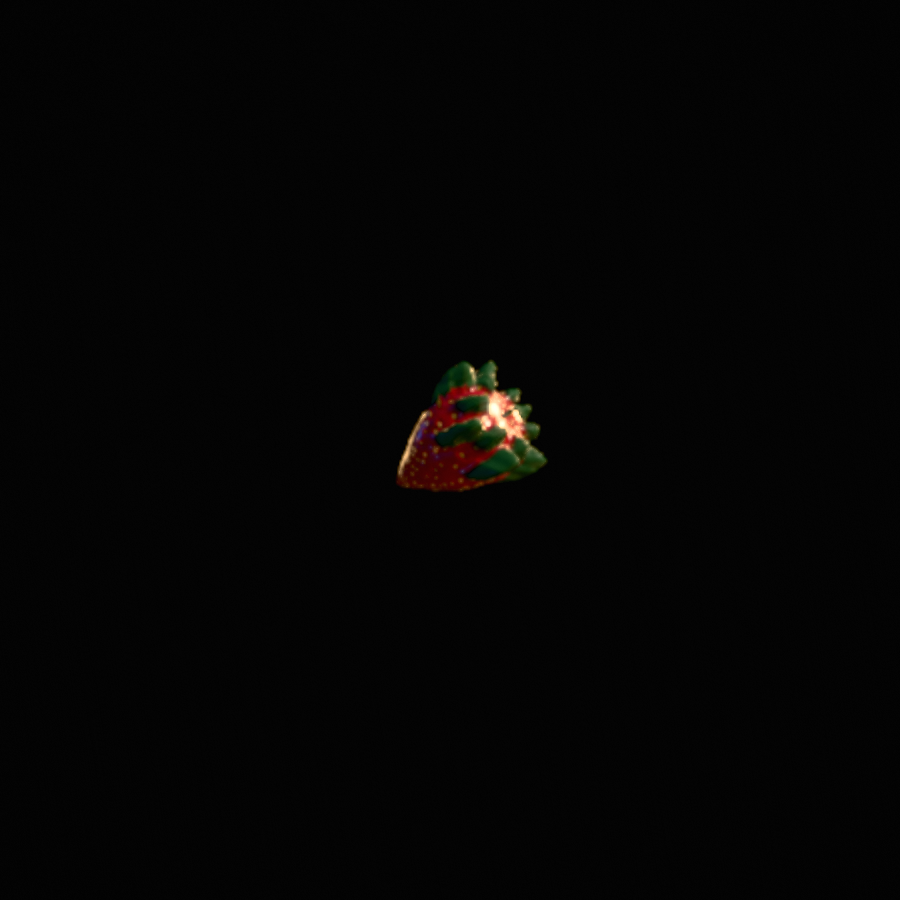
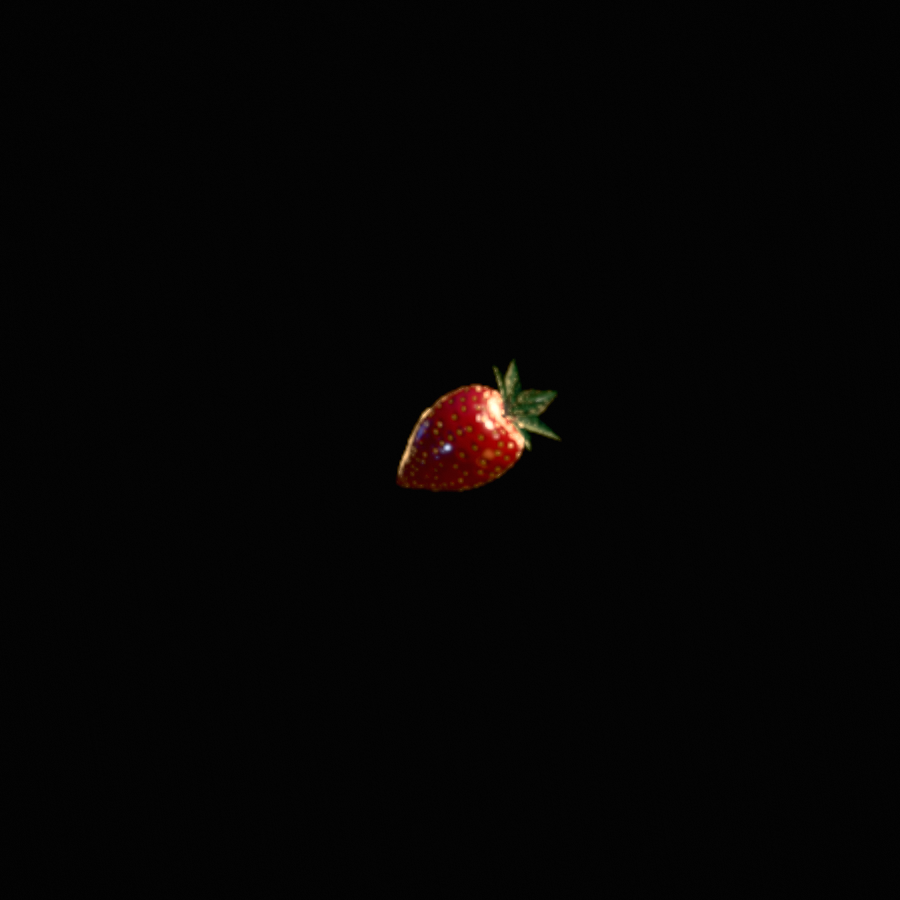
r24: real strawberry leaves — freestanding blade geometry; voiceAround pass budget (codex)
The reference photo settled it: a calyx is broad flat leaves standing FREE
of the fruit with air underneath, and a crown bump — a radial height field
on the body — is attached to the surface along its whole footprint by
construction. No bump parameters could ever read as leaves, which is why
needles (r6), horns (r20), slugs (r22) and flames (r23) all failed the
same way.

geometry.js gains S.leaves / buildLeafCrown(): authored triangle strips
appended to the same non-indexed soup as the body. Each leaf is a closed
pillow (top and bottom sheet sharing a rim, thickness tapering to zero at
edges and tip), rooted inside the stem hub, splayed over the shoulder on a
spine theta(s) = beta + droop*s - kick*s^2 with per-leaf pitch/length
jitter. uv.y runs the leaf band so the strawberry's leafFresh green paints
them. Cut safety is load-bearing, not hoped for: cutter.js chainLoops
already caps every closed loop a plane produces, and the probe's session
loop slices strawberries with zero errors. The D-variant strawberry drops
its bump crown for two whorls of real leaves (6 outer + 4 inner).

Also: harmony.voiceAround's fixed 8-pass cap could leave a 5-fruit stroke
with two voices in unison (codex P2) — the budget is now derived from the
stroke size (n*(n+1)+4, one lift per pass), and the exact reported stroke
is a probe regression case. Probe green 3x.

Claude-Session: https://claude.ai/code/session_015nASdr9y6NnLpyGJ9ZZJpd

Changed region(s): [[0.4667, 0.4044, 0.6222, 0.56]]

diff --git a/src/fruit/geometry.js b/src/fruit/geometry.js
@@ -1043,6 +1043,7 @@ const BASE = {
   stem: null,
   stemLeaf: false,
   crown: null,
+  leaves: null,
   facets: null,
   asym: 0, asymFreq: 1.2, asymOct: 2,
   bend: 0, bend2: 0,
@@ -2006,24 +2007,22 @@ export const SHAPE_VARIANTS = {
         // broad green star with leaves that lie back over the shoulder and turn
         // up at the tips; wide leaves at 1.45x crown columns are 9 columns each,
         // so they shade as leaves. This is the fruit that most needs its crown.
-        // r20: the player's verdict on that version — "growing out of the top
-        // sides… little horns or bumps, not leaves". The horn was structural:
-        // a radial bump peaking mid-shoulder, so r20 leaned it back and cut
-        // len to 0.36. r23: the player's verdict on THAT — "still total
-        // trash" — and the portrait shows why: short + wide-azimuth + fat
-        // meridian (wArc 0.165 × wp 0.240 at len 0.36) renders six dark
-        // SLUGS draped on the shoulder, roughly as wide as they are long.
-        // A calyx leaf is long, thin in azimuth, broad along the meridian
-        // (round 7's 2.8:1 law) with its TIP standing clear of the body.
-        // Two ranks now: an outer star of six long pointed sepals whose tips
-        // project past the shoulder (the plate-01 silhouette), and a short
-        // inner rank filling the root so the star grows from the stem
-        // instead of floating. Both keep a gentle lean so they lie back.
-        crown: {
-          cols: 96,
+        // r24: REAL LEAVES, after the player put the reference photo on the
+        // table ("this is what a strawberry looks like — if you can't make
+        // leaves like this we should drop the poor leaf attempts entirely").
+        // Every crown-bump attempt (needles r6, horns r20, slugs r22, flames
+        // r23) failed for one structural reason: a bump cannot leave the
+        // surface. The calyx is now buildLeafCrown geometry — broad flat
+        // pillow blades rooted at the stem hub, splayed over the shoulder
+        // with open air underneath, exactly the photo's anatomy: an outer
+        // star of five big leaves reaching about the fruit's own width, and
+        // an inner rank of four filling the hub. The body crown is deleted.
+        crown: null,
+        leaves: {
+          rootR: 0.06, rootLift: 0.04,
           whorls: [
-            { n: 6, a: 0.72, len: 0.66, wArc: 0.150, round: true, skew: 0.30, wp: 0.220, lean: 2.0, pPol: 2.30, pAz: 1.20, phase: 0.00, jit: 0.10, jitA: 0.028 },
-            { n: 6, a: 0.46, len: 0.34, wArc: 0.130, round: true, skew: 0.22, wp: 0.180, lean: 1.4, pPol: 2.00, pAz: 1.25, phase: 0.50, jit: 0.08, jitA: 0.018 },
+            { n: 6, beta: 0.82, len: 1.25, width: 0.32, thick: 0.060, droop: 0.72, kick: 0.34, cup: 0.15, jitPhi: 0.09, jitBeta: 0.26, jitLen: 0.14 },
+            { n: 4, beta: 0.45, len: 0.85, width: 0.20, thick: 0.055, droop: 0.55, kick: 0.28, cup: 0.15, phase: 0.5, jitPhi: 0.12, jitBeta: 0.20, jitLen: 0.12 },
           ],
         },
       },
@@ -2502,6 +2501,104 @@ function bladeHeight(blades, a, phi) {
  * @param {object} species  needs .radius and (optionally) .shape / .id
  * @param {number} detail   resolution knob, 4..11 (main.js's fruitSegments)
  */
+/**
+ * ── r24: REAL LEAVES ─────────────────────────────────────────────────────────
+ *
+ * The reference photograph that decided this: a strawberry's calyx is a whorl
+ * of BROAD FLAT LEAF BLADES that stand FREE of the fruit, splayed over the
+ * shoulder with open air underneath. A crown "blade" in this file is a radial
+ * height field h(polar, azimuth) — a bump ON the body surface — and a bump is
+ * attached to the surface along its entire footprint by construction. No
+ * parameterization of a bump can put air under a leaf, which is why every
+ * calyx attempt so far (needles r6, horns r20, slugs r22) failed the same way.
+ *
+ * So `S.leaves` builds actual leaf geometry: authored triangle strips appended
+ * to the same non-indexed soup the body becomes. Each leaf is a closed PILLOW
+ * — a top and bottom sheet sharing their rim, thickness tapering to zero at
+ * the edges and tip — so there is no open silhouette edge, winding stays
+ * outward, and the welded-normal pass shades the rim smoothly. Roots are
+ * buried inside the stem hub so the open root edge is never visible.
+ *
+ * Legality with the cutter is not hoped for, it is already load-bearing:
+ * cutter.js chainLoops caps EVERY closed loop a plane produces (built for the
+ * pineapple's eye bumps), small loops get flat fans, and degenerate/open runs
+ * are dropped — a plane through a 0.05-thick leaf yields exactly such a small
+ * loop. The star-shape invariant protects the BODY's cap ring and the body
+ * remains star-shaped; leaves are separate sheets the loop chainer handles.
+ *
+ * Spine model, per leaf: polar angle θ(s) = beta + droop·s − kick·s², walked
+ * from a root near the stem base; the blade is widest ~40% out and tapers to
+ * a point; `cup` folds the edges up around the midrib. All lengths in body-
+ * radius units like every crown number. uv.y runs 1.0 → 1.66 root → tip (the
+ * leaf band), so species.js paints it foliage — the strawberry's `leafFresh`
+ * path — with no shader work here.
+ */
+function buildLeafCrown(LS, yRoot, seedPh) {
+  const P = [], UV = [], idx = [];
+  const SEC = 8;                       // cross sections along the spine
+  const rootR = LS.rootR ?? 0.06;
+  let wi = 0;
+  for (const w of LS.whorls) {
+    for (let i = 0; i < w.n; i++) {
+      const j1 = ihash(i + wi * 31, 3.1 + seedPh), j2 = ihash(i + wi * 31, 7.7 + seedPh);
+      const j3 = ihash(i + wi * 31, 12.9 + seedPh);
+      const phi = (TAU * (i + (w.phase || 0))) / w.n + (w.jitPhi || 0) * (j1 * 2 - 1);
+      const beta = w.beta + (w.jitBeta || 0) * (j2 * 2 - 1);
+      const L = w.len * (1 + (w.jitLen || 0) * (j3 * 2 - 1));
+      const cp = Math.cos(phi), sp = Math.sin(phi);
+      const er = [cp, 0, sp], ep = [-sp, 0, cp];   // radial / azimuthal frame
+
+      const base = P.length / 3;
+      let dR = rootR, yy = yRoot + (LS.rootLift ?? 0.0);
+      const ds = L / (SEC - 1);
+      for (let sI = 0; sI < SEC; sI++) {
+        const s = sI / (SEC - 1);
+        const theta = beta + (w.droop || 0) * s - (w.kick || 0) * s * s;
+        const st = Math.sin(theta), ct = Math.cos(theta);
+        // in-plane sheet normal (perpendicular to the spine, pointing up-out)
+        const nr = -ct, ny = st;
+        // blade half-width: broad by 40% out, tapering to a point
+        const shape = s < 0.4 ? 0.30 + 0.70 * (s / 0.4) : Math.pow(1 - (s - 0.4) / 0.6, 0.85);
+        const hw = w.width * Math.max(0.02, shape);
+        const th = (w.thick ?? 0.045) * Math.max(0.02, shape);
+        const cupL = (w.cup ?? 0.3) * hw;
+        // section center
+        const cx = dR * er[0], cy = yy, cz = dR * er[2];
+        // 4 verts: edge−, edge+ (rim, cupped up), top mid, bottom mid
+        const exm = cx - hw * ep[0] + cupL * (nr * er[0]);
+        const eym = cy + cupL * ny;
+        const ezm = cz - hw * ep[2] + cupL * (nr * er[2]);
+        const exp_ = cx + hw * ep[0] + cupL * (nr * er[0]);
+        const ezp = cz + hw * ep[2] + cupL * (nr * er[2]);
+        const tmx = cx + 0.5 * th * (nr * er[0]), tmy = cy + 0.5 * th * ny;
+        const tmz = cz + 0.5 * th * (nr * er[2]);
+        const bmx = cx - 0.5 * th * (nr * er[0]), bmy = cy - 0.5 * th * ny;
+        const bmz = cz - 0.5 * th * (nr * er[2]);
+        P.push(exm, eym, ezm, exp_, eym, ezp, tmx, tmy, tmz, bmx, bmy, bmz);
+        const u = phi / TAU - Math.floor(phi / TAU);
+        const v = 1.0 + 0.66 * s;      // the LEAF uv band — see the contract
+        UV.push(u, v, u, v, u, v, u, v);
+        // advance the spine
+        dR += st * ds; yy += ct * ds;
+      }
+      // stitch sections: per pair, 4 top + 4 bottom triangles.
+      // Winding derived in the local frame (X=azimuth, up=sheet normal,
+      // Z=spine): top sheet CCW seen from the normal side, bottom reversed.
+      for (let sI = 0; sI + 1 < SEC; sI++) {
+        const a = base + sI * 4, b = base + (sI + 1) * 4;
+        const aM = a, aP = a + 1, aT = a + 2, aB = a + 3;
+        const bM = b, bP = b + 1, bT = b + 2, bB = b + 3;
+        idx.push(aM, bT, aT, aM, bM, bT);        // top, − half
+        idx.push(aT, bT, bP, aT, bP, aP);        // top, + half
+        idx.push(aM, aB, bB, aM, bB, bM);        // bottom, − half
+        idx.push(aB, aP, bP, aB, bP, bB);        // bottom, + half
+      }
+      wi++;
+    }
+  }
+  return { P, UV, idx };
+}
+
 export function makeFruitGeometry(species, detail = 3) {
   // ROUND 11 — the variant overlay is applied LAST, on top of the species'
   // round-10 entry, so an overlay that names nothing is the shipped fruit.
@@ -2534,6 +2631,15 @@ export function makeFruitGeometry(species, detail = 3) {
   // than the whole rest of the build.
   const blades = S.crown ? buildBlades(S.crown, res.crownCols) : null;
 
+  // r24 real leaves (see buildLeafCrown): rooted just under the body's top
+  // pole, inside the stem hub, so the pillow's open root edge never shows.
+  let leaves = null;
+  if (S.leaves) {
+    let yTop = -1e9;
+    for (const r of rings) if (!r.stem && r.y > yTop) yTop = r.y;
+    leaves = buildLeafCrown(S.leaves, yTop - 0.02, seed * 0.01);
+  }
+
   // Ribbing needs columns to live on: at 8-column tiers a 7-lobe rib aliases
   // into a random wobble, so fade it with the base resolution the same way the
   // pebble/eye relief is faded.
@@ -2559,6 +2665,8 @@ export function makeFruitGeometry(species, detail = 3) {
   // ── vertex pass ───────────────────────────────────────────────────────────
   let total = 2;                                   // two apexes
   for (let i = 0; i < rings.length; i++) total += rings[i].cols;
+  const leafStart = total;
+  if (leaves) total += leaves.P.length / 3;
   const P = new Float64Array(total * 3);
   const UV = new Float32Array(total * 2);
 
@@ -2733,6 +2841,13 @@ export function makeFruitGeometry(species, detail = 3) {
     }
   }
 
+  // r24: append the real leaf vertices — the scale/lean pass and the welded
+  // normal pass below run over `total`, so they cover these for free
+  if (leaves) {
+    P.set(leaves.P, leafStart * 3);
+    UV.set(leaves.UV, leafStart * 2);
+  }
+
   // ── scale + lean ──────────────────────────────────────────────────────────
   // The lean is a LINEAR shear (x += b*y), which maps a star-shaped solid to a
   // star-shaped solid exactly; the quadratic banana term is kept small enough
@@ -2783,6 +2898,7 @@ export function makeFruitGeometry(species, detail = 3) {
       idx.push(rN.start + j, APEX_HI, rN.start + ((j + 1) % rN.cols));
     }
   }
+  if (leaves) for (let i = 0; i < leaves.idx.length; i++) idx.push(leafStart + leaves.idx[i]);
   const index = new Uint32Array(idx);
 
   // ── true smooth normals, computed while the mesh is still welded ───────────

diff --git a/src/audio/harmony.js b/src/audio/harmony.js
@@ -225,15 +225,20 @@ export function createHarmony() {
      * later cuts; returns their semitones in the same order, voiced with the
      * same beauty rules as voiceChord but treating `fixedSemis` as an
      * immovable voice: collisions against it lift the MOVABLE note instead.
-     * Lifting can reorder voices, so resolve by re-sort passes (≤ 5 voices,
-     * each pass lifts one note — the pass cap is generous, not load-bearing).
+     * Lifting can reorder voices, so resolve by re-sort passes, one lift per
+     * pass. The pass budget is derived from the stroke size (codex r23): a
+     * voice climbing past k others needs at most k+1 lifts, so n movables
+     * need at most n·(n+1) — a fixed cap of 8 left a 5-fruit stroke like
+     * orange:0 + [apple:1, orange:2, pineapple:3, apple:4] with two voices
+     * in exact unison, the dissonance this function exists to remove.
      */
     voiceAround(fixedSemis, entries) {
       const out = new Array(entries.length);
       for (let i = 0; i < entries.length; i++) {
         out[i] = api.noteFor(entries[i].id, entries[i].climb);
       }
-      for (let pass = 0; pass < 8; pass++) {
+      const maxPass = entries.length * (entries.length + 1) + 4;
+      for (let pass = 0; pass < maxPass; pass++) {
         const all = out.map((n, i) => ({ n, i }));
         all.push({ n: fixedSemis, i: -1 });
         all.sort((a, b) => a.n - b.n);

diff --git a/HANDOFF.md b/HANDOFF.md
@@ -177,7 +177,7 @@ separate files without collision. `SliceStroke` is the load-bearing noun.
 |---|---|
 | `src/render/stage.js` | stage — lighting, grade, DOF, post, blade streak. **Serialised "exposure owner"**: round 3 was lost when two agents moved the same physical quantity in opposite directions. |
 | `src/fruit/species.js` | fruit-mat (flesh/rind TSL) **and** cutter (the cap/collar code). Two owners, disjoint regions, stated explicitly in briefs. |
-| `src/fruit/geometry.js` | fruit-geo — silhouette and mesh |
+| `src/fruit/geometry.js` | fruit-geo — silhouette and mesh. r24: `S.leaves` builds REAL leaf blades (buildLeafCrown) — closed pillow strips appended to the body soup, standing FREE of the surface (a crown bump is attached along its whole footprint by construction and can never put air under a leaf; that structural fact killed every bump-calyx attempt). Legal with the cutter because chainLoops caps every closed loop per cut plane. Only the D-variant strawberry uses it; leaves land in the leaf uv band so species.js's `leafFresh` path paints them. |
 | `src/slice/cutter.js`, `slicer.js` | cutter — plane splitting, cap generation |
 | `src/juice/fluid.js` | juice — sheets, ligaments, beads, mist |
 | `src/input/blade.js` | blade — swept steel band, one draw call |
